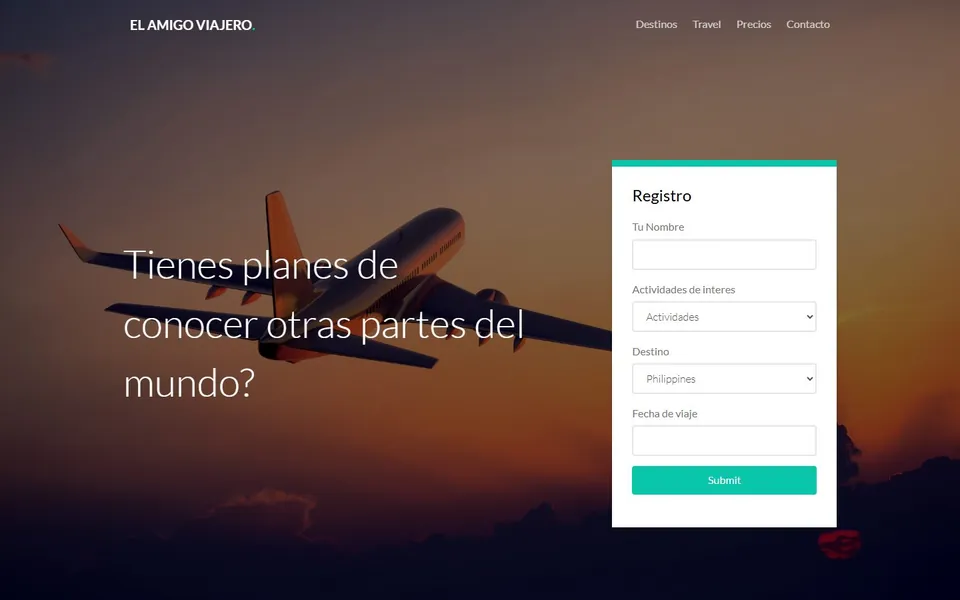
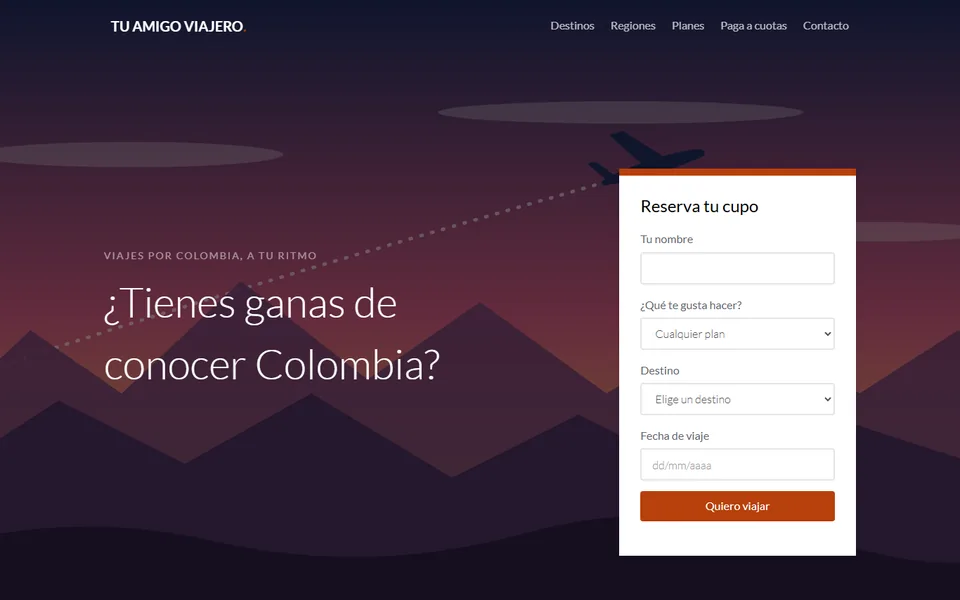
feat(proyectos): Tu Amigo Viajero como proyecto destacado con su identidad de atardecer
Pasa de tarjeta pequeña a proyecto con captura, su color propio y enlaces al
sitio y al código. El marcador de color queda solo en las tarjetas de
proyecto: las tarjetas pequeñas ya no muestran un hueco antes del rótulo.

diff --git a/index.html b/index.html
@@ -188,6 +188,24 @@
           </div>
         </article>
 
+        <article class="project project--reverse project--viajero">
+          <a class="project__media" href="https://darwinmontiel.github.io/tu-amigo-viajero/" target="_blank" rel="noopener">
+            <img src="assets/img/tu-amigo-viajero.webp" width="960" height="600" loading="lazy" alt="Portada de Tu Amigo Viajero: un avión cruza el atardecer sobre los Andes junto al formulario de reserva">
+          </a>
+          <div class="project__body">
+            <p class="project__kicker">Frontend · Accesibilidad · Proyecto académico</p>
+            <h3>Tu Amigo Viajero</h3>
+            <p>Agencia de viajes ficticia por Colombia, hecha en equipo en 2022 y revisada en 2026: seis destinos, planes en pesos y un <strong>simulador de pago a cuotas</strong> (sistema francés) con tabla de amortización. Formularios validados en español, contraste <strong>WCAG AA</strong> medido en las cuatro páginas, HTML validado y pruebas con <code>node --test</code> en integración continua.</p>
+            <ul class="chips">
+              <li>HTML5</li><li>Sass</li><li>JavaScript</li><li>Bootstrap</li><li>Accesibilidad</li>
+            </ul>
+            <p class="project__links">
+              <a href="https://darwinmontiel.github.io/tu-amigo-viajero/" target="_blank" rel="noopener">Sitio en vivo</a>
+              <a href="https://github.com/DarwinMontiel/tu-amigo-viajero" target="_blank" rel="noopener">Código</a>
+            </p>
+          </div>
+        </article>
+
         <div class="cards">
           <article class="card">
             <p class="project__kicker">IA generativa</p>
@@ -202,13 +220,6 @@
             <p>Bot de la certificación Robocorp: valida el lote, reintenta envíos fallidos, genera recibos PDF y un reporte del turno con Page Object y resiliencia por pedido.</p>
             <ul class="chips"><li>Python</li><li>Robocorp</li><li>RPA Framework</li></ul>
             <a class="card__link" href="https://github.com/DarwinMontiel/robot-pedidos-robocorp" target="_blank" rel="noopener">Ver repositorio</a>
-          </article>
-          <article class="card">
-            <p class="project__kicker">Frontend · Académico</p>
-            <h3>Tu Amigo Viajero</h3>
-            <p>Agencia de viajes ficticia por Colombia, hecha en equipo: destinos, planes en pesos y un simulador de pago a cuotas con tabla de amortización.</p>
-            <ul class="chips"><li>HTML5</li><li>Sass</li><li>JavaScript</li></ul>
-            <a class="card__link" href="https://darwinmontiel.github.io/tu-amigo-viajero/" target="_blank" rel="noopener">Ver sitio</a>
           </article>
         </div>
       </div>

diff --git a/assets/css/styles.css b/assets/css/styles.css
@@ -133,8 +133,9 @@ h1, h2, h3 { line-height: 1.2; margin: 0; letter-spacing: -0.01em; }
 .project--vigia { --proyecto: #b8392e; }
 .project--radar { --proyecto: #d4a72c; }
 .project--faro { --proyecto: #5b53e6; }
+.project--viajero { --proyecto: #b8400b; }
 .project__media { border-top: 4px solid var(--proyecto); }
-.project__kicker::before {
+.project .project__kicker::before {
   content: ""; display: inline-block; width: 10px; height: 10px; margin-right: 8px; border-radius: 2px;
   background: var(--proyecto); vertical-align: 0;
 }
